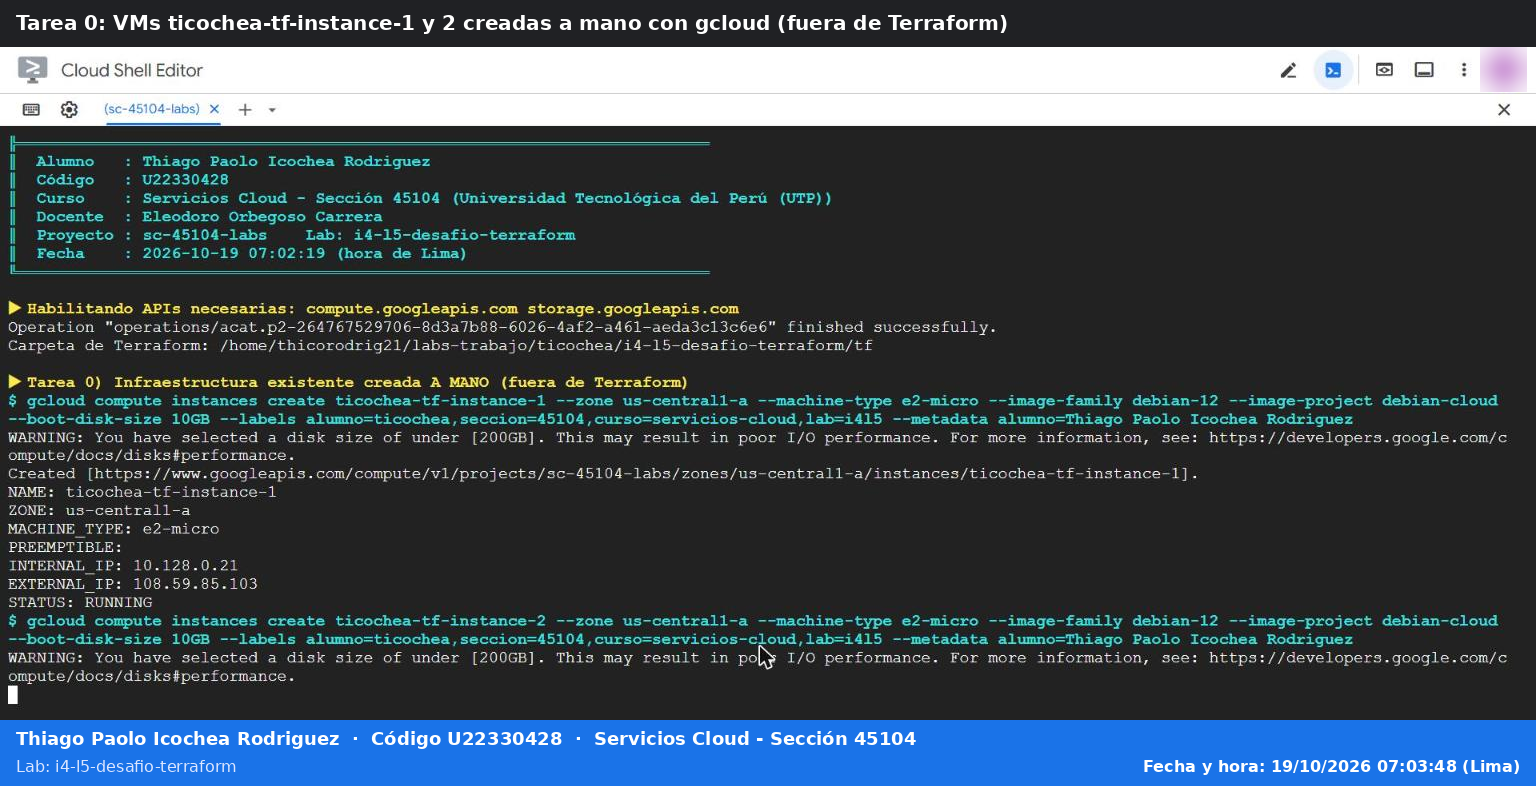
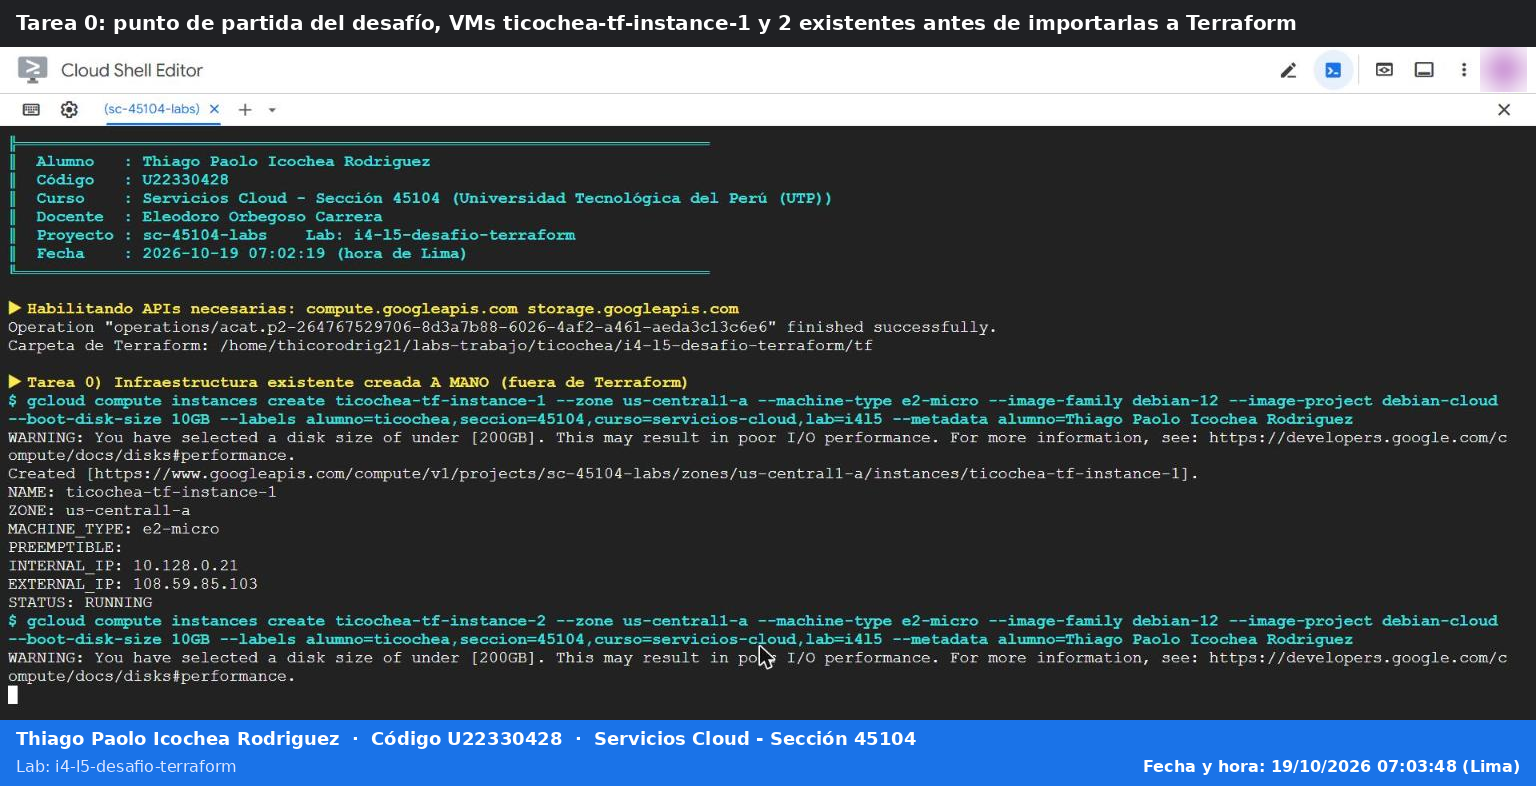
i4-l5: descripción más clara de la captura de la tarea 0
Claude-Session: https://claude.ai/code/session_016qeVnme6ensFKRt6bLcg1r

Changed region(s): [[0.0625, 0.0, 0.8438, 0.0611]]

diff --git a/alumnos/thiago-icochea/evidencias/i4-l5-desafio-terraform/capturas.md b/alumnos/thiago-icochea/evidencias/i4-l5-desafio-terraform/capturas.md
@@ -1,4 +1,4 @@
-01-cloudshell-vms-manuales.png|Tarea 0: VMs ticochea-tf-instance-1 y 2 creadas a mano con gcloud (fuera de Terraform)|19/10/2026 07:03:48|/tmp/claude-chrome-screenshots-pC1MMH/screenshot-1792411428437-138.jpg
+01-cloudshell-vms-manuales.png|Tarea 0: punto de partida del desafío, VMs ticochea-tf-instance-1 y 2 existentes antes de importarlas a Terraform|19/10/2026 07:03:48|/tmp/claude-chrome-screenshots-pC1MMH/screenshot-1792411428437-138.jpg
 02-cloudshell-importar.png|Tareas 1-3: plan con 2 VMs a importar y el bucket del backend; importación en curso|19/10/2026 07:03:48|/tmp/claude-chrome-screenshots-pC1MMH/screenshot-1792411428439-139.jpg
 03-cloudshell-backend.png|Apply: 2 importadas, 1 creada; outputs del alumno y migración al backend gcs|19/10/2026 07:04:47|/tmp/claude-chrome-screenshots-pC1MMH/screenshot-1792411488003-141.jpg
 04-cloudshell-e2-small.png|Tarea 5: e2-micro → e2-small y nueva ticochea-tf-instance-3|19/10/2026 07:05:47|/tmp/claude-chrome-screenshots-pC1MMH/screenshot-1792411547446-142.jpg
